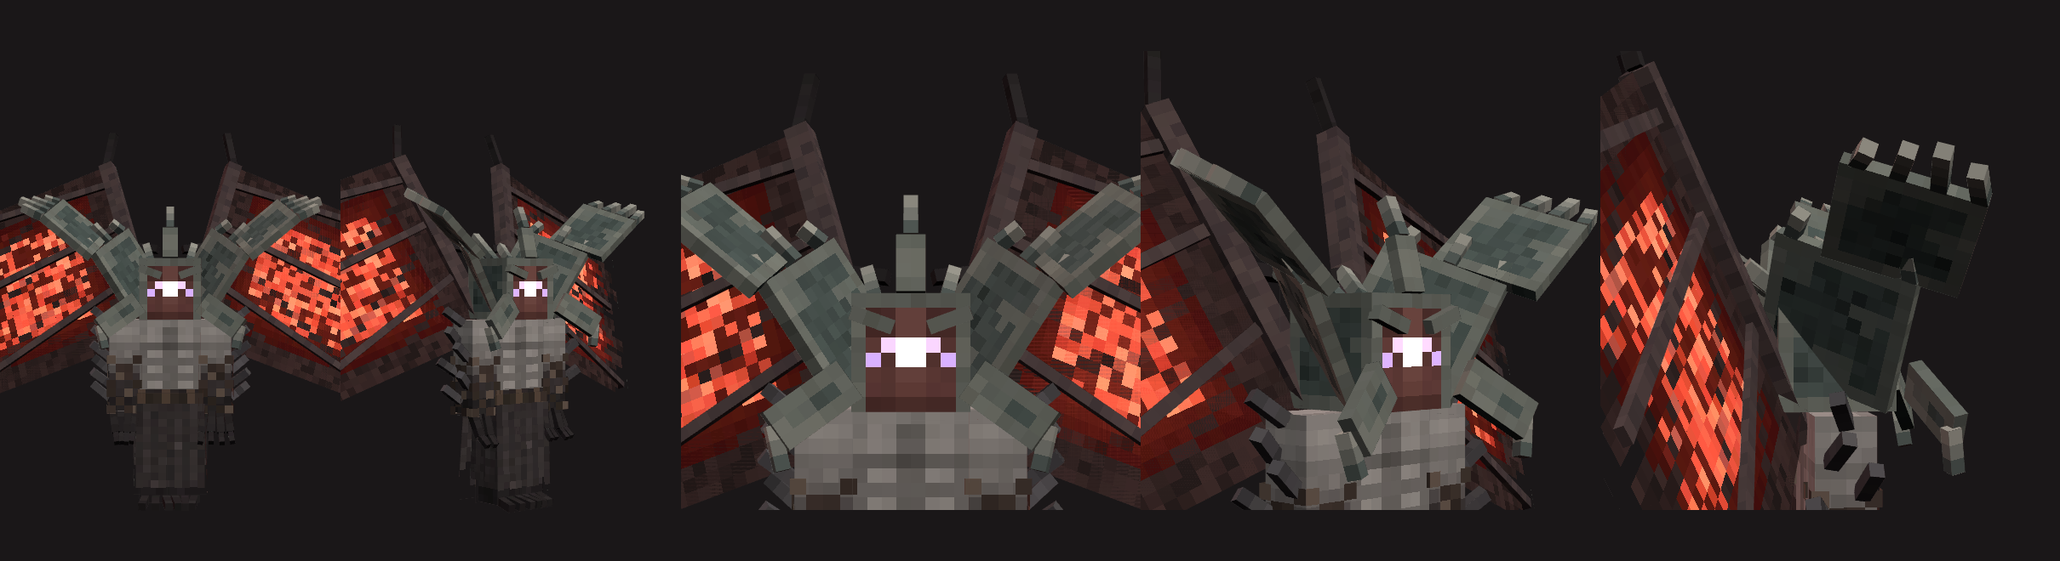
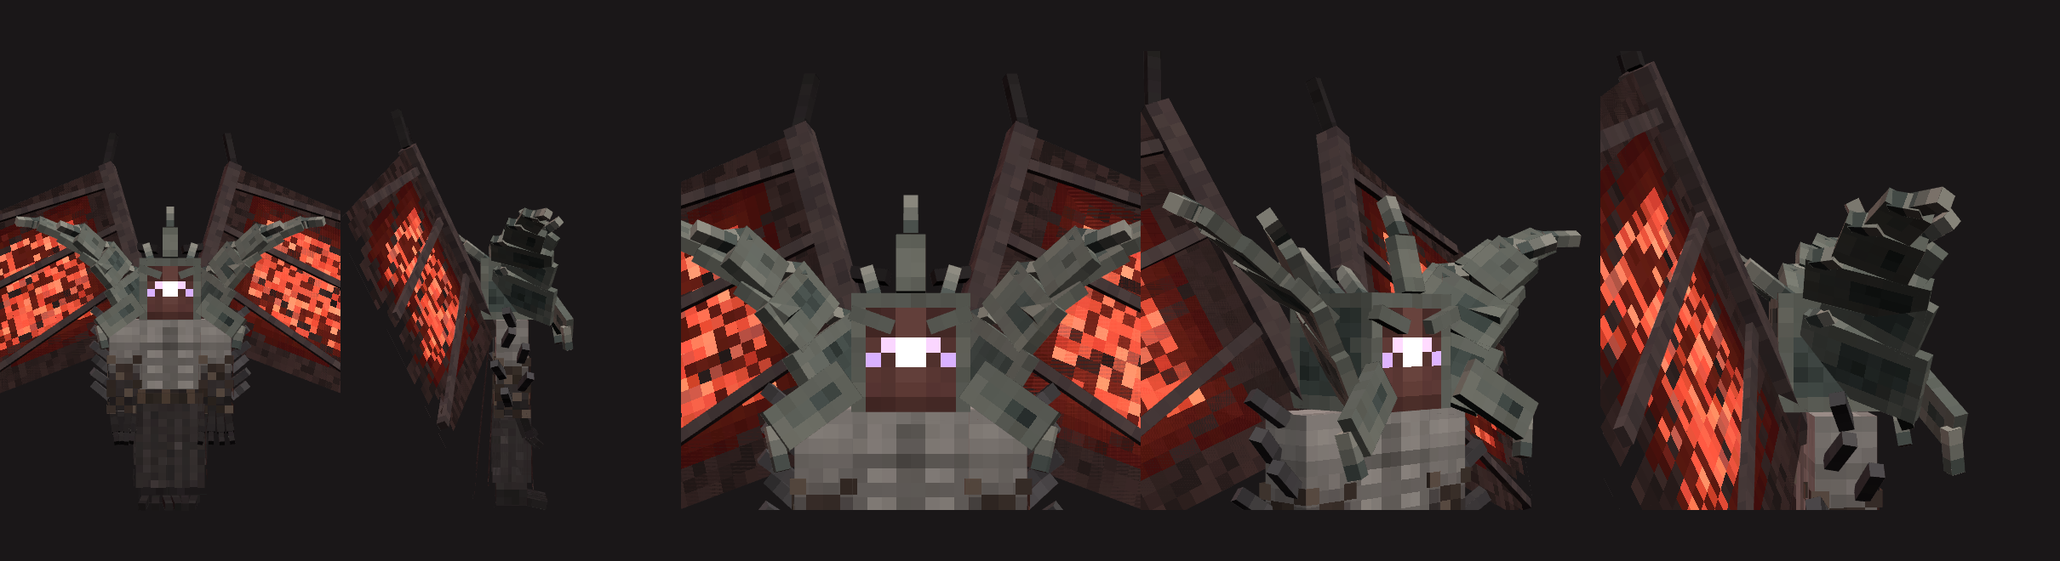
Demon head: build cowl plates from tapered, back-curving segments
Each cowl blade is now a stack of three segments that shrink in height
and depth and curve back, with barbs off the back edges, so the side
view reads as a layered crescent instead of a flat slab.

Claude-Session: https://claude.ai/code/session_01MfYQXbUyfkcVTi5nAqcCEq

diff --git a/mods/warfront/src/main/java/com/warfront/client/model/UnitGeometry.java b/mods/warfront/src/main/java/com/warfront/client/model/UnitGeometry.java
@@ -608,183 +608,211 @@ public final class UnitGeometry {
         PartDefinition root = mesh.getRoot();
         PartDefinition p0 = root.addOrReplaceChild("head", CubeListBuilder.create(),
                 PartPose.offsetAndRotation(0F, 0F, 0F, 0F, 0F, 0F));
-        PartDefinition p1 = p0.addOrReplaceChild("cowl_r", CubeListBuilder.create().texOffs(28, 30).addBox(-0.5F, -10F, -1F, 1F, 10F, 10F),
-                PartPose.offsetAndRotation(-4.3F, -0.5F, -2.5F, 0.12F, 0.55F, -0.5F));
-        PartDefinition p2 = p1.addOrReplaceChild("cowl_r_outer", CubeListBuilder.create().texOffs(72, 30).addBox(-0.5F, -8F, -4F, 1F, 8F, 9F),
-                PartPose.offsetAndRotation(0F, -10F, 0.5F, 0.12F, -0.2F, -0.32F));
-        PartDefinition p3 = p2.addOrReplaceChild("cowl_r_outer_spike0", CubeListBuilder.create().texOffs(8, 71).addBox(-0.5F, -3F, -0.5F, 1F, 3F, 1F),
-                PartPose.offsetAndRotation(0F, -8F, -3.5F, -0.25F, 0F, -0.35F));
-        PartDefinition p4 = p2.addOrReplaceChild("cowl_r_outer_spike1", CubeListBuilder.create().texOffs(114, 54).addBox(-0.5F, -4F, -0.5F, 1F, 4F, 1F),
-                PartPose.offsetAndRotation(0F, -8F, -1F, -0.0833F, 0F, -0.35F));
-        PartDefinition p5 = p2.addOrReplaceChild("cowl_r_outer_spike2", CubeListBuilder.create().texOffs(12, 71).addBox(-0.5F, -3F, -0.5F, 1F, 3F, 1F),
-                PartPose.offsetAndRotation(0F, -8F, 1.5F, 0.0833F, 0F, -0.35F));
-        PartDefinition p6 = p2.addOrReplaceChild("cowl_r_outer_spike3", CubeListBuilder.create().texOffs(124, 80).addBox(-0.5F, -2F, -0.5F, 1F, 2F, 1F),
-                PartPose.offsetAndRotation(0F, -8F, 4F, 0.25F, 0F, -0.35F));
-        PartDefinition p7 = p1.addOrReplaceChild("cowl_r_spike0", CubeListBuilder.create().texOffs(0, 84).addBox(-0.5F, -2F, -0.5F, 1F, 2F, 1F),
-                PartPose.offsetAndRotation(0F, -10F, -0.5F, -0.25F, 0F, -0.25F));
-        PartDefinition p8 = p1.addOrReplaceChild("cowl_r_spike1", CubeListBuilder.create().texOffs(16, 71).addBox(-0.5F, -3F, -0.5F, 1F, 3F, 1F),
-                PartPose.offsetAndRotation(0F, -10F, 3.75F, 0F, 0F, -0.25F));
-        PartDefinition p9 = p1.addOrReplaceChild("cowl_r_spike2", CubeListBuilder.create().texOffs(4, 84).addBox(-0.5F, -2F, -0.5F, 1F, 2F, 1F),
-                PartPose.offsetAndRotation(0F, -10F, 8F, 0.25F, 0F, -0.25F));
-        PartDefinition p10 = p0.addOrReplaceChild("cowl_l", CubeListBuilder.create().texOffs(50, 30).addBox(-0.5F, -10F, -1F, 1F, 10F, 10F),
-                PartPose.offsetAndRotation(4.3F, -0.5F, -2.5F, 0.12F, -0.55F, 0.5F));
-        PartDefinition p11 = p10.addOrReplaceChild("cowl_l_outer", CubeListBuilder.create().texOffs(92, 30).addBox(-0.5F, -8F, -4F, 1F, 8F, 9F),
-                PartPose.offsetAndRotation(0F, -10F, 0.5F, 0.12F, 0.2F, 0.32F));
-        PartDefinition p12 = p11.addOrReplaceChild("cowl_l_outer_spike0", CubeListBuilder.create().texOffs(20, 71).addBox(-0.5F, -3F, -0.5F, 1F, 3F, 1F),
-                PartPose.offsetAndRotation(0F, -8F, -3.5F, -0.25F, 0F, 0.35F));
-        PartDefinition p13 = p11.addOrReplaceChild("cowl_l_outer_spike1", CubeListBuilder.create().texOffs(118, 54).addBox(-0.5F, -4F, -0.5F, 1F, 4F, 1F),
-                PartPose.offsetAndRotation(0F, -8F, -1F, -0.0833F, 0F, 0.35F));
-        PartDefinition p14 = p11.addOrReplaceChild("cowl_l_outer_spike2", CubeListBuilder.create().texOffs(24, 71).addBox(-0.5F, -3F, -0.5F, 1F, 3F, 1F),
-                PartPose.offsetAndRotation(0F, -8F, 1.5F, 0.0833F, 0F, 0.35F));
-        PartDefinition p15 = p11.addOrReplaceChild("cowl_l_outer_spike3", CubeListBuilder.create().texOffs(8, 84).addBox(-0.5F, -2F, -0.5F, 1F, 2F, 1F),
-                PartPose.offsetAndRotation(0F, -8F, 4F, 0.25F, 0F, 0.35F));
-        PartDefinition p16 = p10.addOrReplaceChild("cowl_l_spike0", CubeListBuilder.create().texOffs(12, 84).addBox(-0.5F, -2F, -0.5F, 1F, 2F, 1F),
-                PartPose.offsetAndRotation(0F, -10F, -0.5F, -0.25F, 0F, 0.25F));
-        PartDefinition p17 = p10.addOrReplaceChild("cowl_l_spike1", CubeListBuilder.create().texOffs(28, 71).addBox(-0.5F, -3F, -0.5F, 1F, 3F, 1F),
-                PartPose.offsetAndRotation(0F, -10F, 3.75F, 0F, 0F, 0.25F));
-        PartDefinition p18 = p10.addOrReplaceChild("cowl_l_spike2", CubeListBuilder.create().texOffs(16, 84).addBox(-0.5F, -2F, -0.5F, 1F, 2F, 1F),
-                PartPose.offsetAndRotation(0F, -10F, 8F, 0.25F, 0F, 0.25F));
-        PartDefinition p19 = p0.addOrReplaceChild("chin_r", CubeListBuilder.create().texOffs(32, 71).addBox(-6F, -1F, -1F, 6F, 3F, 1F),
+        PartDefinition p1 = p0.addOrReplaceChild("cowl_r", CubeListBuilder.create(),
+                PartPose.offsetAndRotation(-4.3F, -0.5F, -2.5F, 0.1F, 0.55F, -0.5F));
+        PartDefinition p2 = p1.addOrReplaceChild("cowl_r_blade", CubeListBuilder.create().texOffs(48, 30).addBox(-0.5F, -5F, -3F, 1F, 5F, 9F),
+                PartPose.offsetAndRotation(0F, 0F, 0F, 0F, 0F, 0F));
+        PartDefinition p3 = p2.addOrReplaceChild("cowl_r_blade_1", CubeListBuilder.create().texOffs(36, 54).addBox(-0.5F, -4F, -2F, 1F, 4F, 7F),
+                PartPose.offsetAndRotation(0F, -5F, 0F, 0.18F, 0F, -0.045F));
+        PartDefinition p4 = p3.addOrReplaceChild("cowl_r_blade_2", CubeListBuilder.create().texOffs(0, 66).addBox(-0.5F, -4F, -0.5F, 1F, 4F, 4F),
+                PartPose.offsetAndRotation(0F, -4F, 0F, 0.18F, 0F, -0.045F));
+        PartDefinition p5 = p4.addOrReplaceChild("cowl_r_blade_tip", CubeListBuilder.create().texOffs(86, 66).addBox(-0.5F, -3F, -0.5F, 1F, 3F, 1F),
+                PartPose.offsetAndRotation(0F, -4F, 1.5F, 0.35F, 0F, -0.15F));
+        PartDefinition p6 = p4.addOrReplaceChild("cowl_r_blade_barb2", CubeListBuilder.create().texOffs(64, 82).addBox(-0.5F, -2F, -0.5F, 1F, 2F, 1F),
+                PartPose.offsetAndRotation(0F, -3.5F, 3F, 0.9F, 0F, -0.15F));
+        PartDefinition p7 = p3.addOrReplaceChild("cowl_r_blade_barb1", CubeListBuilder.create().texOffs(68, 82).addBox(-0.5F, -2F, -0.5F, 1F, 2F, 1F),
+                PartPose.offsetAndRotation(0F, -3.5F, 4.5F, 0.9F, 0F, -0.15F));
+        PartDefinition p8 = p2.addOrReplaceChild("cowl_r_blade_barb0", CubeListBuilder.create().texOffs(72, 82).addBox(-0.5F, -2F, -0.5F, 1F, 2F, 1F),
+                PartPose.offsetAndRotation(0F, -4.5F, 5.5F, 0.9F, 0F, -0.15F));
+        PartDefinition p9 = p1.addOrReplaceChild("cowl_r_outer", CubeListBuilder.create(),
+                PartPose.offsetAndRotation(0F, -7F, 0.5F, 0.1F, -0.2F, -0.42F));
+        PartDefinition p10 = p9.addOrReplaceChild("cowl_r_outer_blade", CubeListBuilder.create().texOffs(0, 54).addBox(-0.5F, -4F, -2.5F, 1F, 4F, 8F),
+                PartPose.offsetAndRotation(0F, 0F, 0F, 0F, 0F, 0F));
+        PartDefinition p11 = p10.addOrReplaceChild("cowl_r_outer_blade_1", CubeListBuilder.create().texOffs(100, 54).addBox(-0.5F, -4F, -1F, 1F, 4F, 5F),
+                PartPose.offsetAndRotation(0F, -4F, 0F, 0.18F, 0F, -0.06F));
+        PartDefinition p12 = p11.addOrReplaceChild("cowl_r_outer_blade_2", CubeListBuilder.create().texOffs(24, 66).addBox(-0.5F, -3F, 0F, 1F, 3F, 3F),
+                PartPose.offsetAndRotation(0F, -4F, 0F, 0.18F, 0F, -0.06F));
+        PartDefinition p13 = p12.addOrReplaceChild("cowl_r_outer_blade_tip", CubeListBuilder.create().texOffs(90, 66).addBox(-0.5F, -3F, -0.5F, 1F, 3F, 1F),
+                PartPose.offsetAndRotation(0F, -3F, 1.5F, 0.35F, 0F, -0.2F));
+        PartDefinition p14 = p12.addOrReplaceChild("cowl_r_outer_blade_barb2", CubeListBuilder.create().texOffs(76, 82).addBox(-0.5F, -2F, -0.5F, 1F, 2F, 1F),
+                PartPose.offsetAndRotation(0F, -2.5F, 2.5F, 0.9F, 0F, -0.2F));
+        PartDefinition p15 = p11.addOrReplaceChild("cowl_r_outer_blade_barb1", CubeListBuilder.create().texOffs(80, 82).addBox(-0.5F, -2F, -0.5F, 1F, 2F, 1F),
+                PartPose.offsetAndRotation(0F, -3.5F, 3.5F, 0.9F, 0F, -0.2F));
+        PartDefinition p16 = p10.addOrReplaceChild("cowl_r_outer_blade_barb0", CubeListBuilder.create().texOffs(84, 82).addBox(-0.5F, -2F, -0.5F, 1F, 2F, 1F),
+                PartPose.offsetAndRotation(0F, -3.5F, 5F, 0.9F, 0F, -0.2F));
+        PartDefinition p17 = p0.addOrReplaceChild("cowl_l", CubeListBuilder.create(),
+                PartPose.offsetAndRotation(4.3F, -0.5F, -2.5F, 0.1F, -0.55F, 0.5F));
+        PartDefinition p18 = p17.addOrReplaceChild("cowl_l_blade", CubeListBuilder.create().texOffs(68, 30).addBox(-0.5F, -5F, -3F, 1F, 5F, 9F),
+                PartPose.offsetAndRotation(0F, 0F, 0F, 0F, 0F, 0F));
+        PartDefinition p19 = p18.addOrReplaceChild("cowl_l_blade_1", CubeListBuilder.create().texOffs(52, 54).addBox(-0.5F, -4F, -2F, 1F, 4F, 7F),
+                PartPose.offsetAndRotation(0F, -5F, 0F, 0.18F, 0F, 0.045F));
+        PartDefinition p20 = p19.addOrReplaceChild("cowl_l_blade_2", CubeListBuilder.create().texOffs(10, 66).addBox(-0.5F, -4F, -0.5F, 1F, 4F, 4F),
+                PartPose.offsetAndRotation(0F, -4F, 0F, 0.18F, 0F, 0.045F));
+        PartDefinition p21 = p20.addOrReplaceChild("cowl_l_blade_tip", CubeListBuilder.create().texOffs(94, 66).addBox(-0.5F, -3F, -0.5F, 1F, 3F, 1F),
+                PartPose.offsetAndRotation(0F, -4F, 1.5F, 0.35F, 0F, 0.15F));
+        PartDefinition p22 = p20.addOrReplaceChild("cowl_l_blade_barb2", CubeListBuilder.create().texOffs(88, 82).addBox(-0.5F, -2F, -0.5F, 1F, 2F, 1F),
+                PartPose.offsetAndRotation(0F, -3.5F, 3F, 0.9F, 0F, 0.15F));
+        PartDefinition p23 = p19.addOrReplaceChild("cowl_l_blade_barb1", CubeListBuilder.create().texOffs(92, 82).addBox(-0.5F, -2F, -0.5F, 1F, 2F, 1F),
+                PartPose.offsetAndRotation(0F, -3.5F, 4.5F, 0.9F, 0F, 0.15F));
+        PartDefinition p24 = p18.addOrReplaceChild("cowl_l_blade_barb0", CubeListBuilder.create().texOffs(96, 82).addBox(-0.5F, -2F, -0.5F, 1F, 2F, 1F),
+                PartPose.offsetAndRotation(0F, -4.5F, 5.5F, 0.9F, 0F, 0.15F));
+        PartDefinition p25 = p17.addOrReplaceChild("cowl_l_outer", CubeListBuilder.create(),
+                PartPose.offsetAndRotation(0F, -7F, 0.5F, 0.1F, 0.2F, 0.42F));
+        PartDefinition p26 = p25.addOrReplaceChild("cowl_l_outer_blade", CubeListBuilder.create().texOffs(18, 54).addBox(-0.5F, -4F, -2.5F, 1F, 4F, 8F),
+                PartPose.offsetAndRotation(0F, 0F, 0F, 0F, 0F, 0F));
+        PartDefinition p27 = p26.addOrReplaceChild("cowl_l_outer_blade_1", CubeListBuilder.create().texOffs(112, 54).addBox(-0.5F, -4F, -1F, 1F, 4F, 5F),
+                PartPose.offsetAndRotation(0F, -4F, 0F, 0.18F, 0F, 0.06F));
+        PartDefinition p28 = p27.addOrReplaceChild("cowl_l_outer_blade_2", CubeListBuilder.create().texOffs(32, 66).addBox(-0.5F, -3F, 0F, 1F, 3F, 3F),
+                PartPose.offsetAndRotation(0F, -4F, 0F, 0.18F, 0F, 0.06F));
+        PartDefinition p29 = p28.addOrReplaceChild("cowl_l_outer_blade_tip", CubeListBuilder.create().texOffs(98, 66).addBox(-0.5F, -3F, -0.5F, 1F, 3F, 1F),
+                PartPose.offsetAndRotation(0F, -3F, 1.5F, 0.35F, 0F, 0.2F));
+        PartDefinition p30 = p28.addOrReplaceChild("cowl_l_outer_blade_barb2", CubeListBuilder.create().texOffs(100, 82).addBox(-0.5F, -2F, -0.5F, 1F, 2F, 1F),
+                PartPose.offsetAndRotation(0F, -2.5F, 2.5F, 0.9F, 0F, 0.2F));
+        PartDefinition p31 = p27.addOrReplaceChild("cowl_l_outer_blade_barb1", CubeListBuilder.create().texOffs(104, 82).addBox(-0.5F, -2F, -0.5F, 1F, 2F, 1F),
+                PartPose.offsetAndRotation(0F, -3.5F, 3.5F, 0.9F, 0F, 0.2F));
+        PartDefinition p32 = p26.addOrReplaceChild("cowl_l_outer_blade_barb0", CubeListBuilder.create().texOffs(108, 82).addBox(-0.5F, -2F, -0.5F, 1F, 2F, 1F),
+                PartPose.offsetAndRotation(0F, -3.5F, 5F, 0.9F, 0F, 0.2F));
+        PartDefinition p33 = p0.addOrReplaceChild("chin_r", CubeListBuilder.create().texOffs(102, 66).addBox(-6F, -1F, -1F, 6F, 3F, 1F),
                 PartPose.offsetAndRotation(-4.6F, -2.5F, -4.6F, 0F, -0.35F, -0.62F));
-        PartDefinition p20 = p19.addOrReplaceChild("chin_r_edge", CubeListBuilder.create().texOffs(46, 71).addBox(-0.5F, -0.5F, -0.5F, 1F, 3F, 1F),
+        PartDefinition p34 = p33.addOrReplaceChild("chin_r_edge", CubeListBuilder.create().texOffs(116, 66).addBox(-0.5F, -0.5F, -0.5F, 1F, 3F, 1F),
                 PartPose.offsetAndRotation(-6F, 0.5F, 0F, 0F, 0F, 0.4F));
-        PartDefinition p21 = p0.addOrReplaceChild("chin_l", CubeListBuilder.create().texOffs(50, 71).addBox(0F, -1F, -1F, 6F, 3F, 1F),
+        PartDefinition p35 = p0.addOrReplaceChild("chin_l", CubeListBuilder.create().texOffs(0, 74).addBox(0F, -1F, -1F, 6F, 3F, 1F),
                 PartPose.offsetAndRotation(4.6F, -2.5F, -4.6F, 0F, 0.35F, 0.62F));
-        PartDefinition p22 = p21.addOrReplaceChild("chin_l_edge", CubeListBuilder.create().texOffs(64, 71).addBox(-0.5F, -0.5F, -0.5F, 1F, 3F, 1F),
+        PartDefinition p36 = p35.addOrReplaceChild("chin_l_edge", CubeListBuilder.create().texOffs(14, 74).addBox(-0.5F, -0.5F, -0.5F, 1F, 3F, 1F),
                 PartPose.offsetAndRotation(6F, 0.5F, 0F, 0F, 0F, -0.4F));
-        PartDefinition p23 = p0.addOrReplaceChild("crest", CubeListBuilder.create().texOffs(122, 54).addBox(-1F, -4F, -0.5F, 2F, 4F, 1F),
+        PartDefinition p37 = p0.addOrReplaceChild("crest", CubeListBuilder.create().texOffs(72, 66).addBox(-1F, -4F, -0.5F, 2F, 4F, 1F),
                 PartPose.offsetAndRotation(0F, -8F, -3.8F, -0.25F, 0F, 0F));
-        PartDefinition p24 = p23.addOrReplaceChild("crest_tip", CubeListBuilder.create().texOffs(68, 71).addBox(-0.5F, -3F, -0.5F, 1F, 3F, 1F),
+        PartDefinition p38 = p37.addOrReplaceChild("crest_tip", CubeListBuilder.create().texOffs(18, 74).addBox(-0.5F, -3F, -0.5F, 1F, 3F, 1F),
                 PartPose.offsetAndRotation(0F, -4F, 0F, -0.2F, 0F, 0F));
-        PartDefinition p25 = p0.addOrReplaceChild("back_spine_0", CubeListBuilder.create().texOffs(0, 71).addBox(-0.5F, -4F, -0.5F, 1F, 4F, 1F),
+        PartDefinition p39 = p0.addOrReplaceChild("back_spine_0", CubeListBuilder.create().texOffs(78, 66).addBox(-0.5F, -4F, -0.5F, 1F, 4F, 1F),
                 PartPose.offsetAndRotation(-2.5F, -7.5F, 3F, -0.9F, 0F, -0.3F));
-        PartDefinition p26 = p0.addOrReplaceChild("back_spine_1", CubeListBuilder.create().texOffs(78, 54).addBox(-0.5F, -6F, -0.5F, 1F, 6F, 1F),
+        PartDefinition p40 = p0.addOrReplaceChild("back_spine_1", CubeListBuilder.create().texOffs(20, 66).addBox(-0.5F, -6F, -0.5F, 1F, 6F, 1F),
                 PartPose.offsetAndRotation(0F, -7.5F, 3F, -0.9F, 0F, 0F));
-        PartDefinition p27 = p0.addOrReplaceChild("back_spine_2", CubeListBuilder.create().texOffs(4, 71).addBox(-0.5F, -4F, -0.5F, 1F, 4F, 1F),
+        PartDefinition p41 = p0.addOrReplaceChild("back_spine_2", CubeListBuilder.create().texOffs(82, 66).addBox(-0.5F, -4F, -0.5F, 1F, 4F, 1F),
                 PartPose.offsetAndRotation(2.5F, -7.5F, 3F, -0.9F, 0F, 0.3F));
-        PartDefinition p28 = p0.addOrReplaceChild("brow_r", CubeListBuilder.create().texOffs(52, 84).addBox(-1.5F, -0.5F, -0.5F, 3F, 1F, 1F),
+        PartDefinition p42 = p0.addOrReplaceChild("brow_r", CubeListBuilder.create().texOffs(16, 86).addBox(-1.5F, -0.5F, -0.5F, 3F, 1F, 1F),
                 PartPose.offsetAndRotation(-2.6F, -6.2F, -4.3F, 0F, 0F, 0.35F));
-        PartDefinition p29 = p0.addOrReplaceChild("brow_l", CubeListBuilder.create().texOffs(60, 84).addBox(-1.5F, -0.5F, -0.5F, 3F, 1F, 1F),
+        PartDefinition p43 = p0.addOrReplaceChild("brow_l", CubeListBuilder.create().texOffs(24, 86).addBox(-1.5F, -0.5F, -0.5F, 3F, 1F, 1F),
                 PartPose.offsetAndRotation(2.6F, -6.2F, -4.3F, 0F, 0F, -0.35F));
-        PartDefinition p30 = root.addOrReplaceChild("hat", CubeListBuilder.create(),
+        PartDefinition p44 = root.addOrReplaceChild("hat", CubeListBuilder.create(),
                 PartPose.offsetAndRotation(0F, 0F, 0F, 0F, 0F, 0F));
-        PartDefinition p31 = root.addOrReplaceChild("body", CubeListBuilder.create(),
+        PartDefinition p45 = root.addOrReplaceChild("body", CubeListBuilder.create(),
                 PartPose.offsetAndRotation(0F, 0F, 0F, 0F, 0F, 0F));
-        PartDefinition p32 = p31.addOrReplaceChild("wing_r", CubeListBuilder.create().texOffs(0, 76).addBox(-27F, -1F, -1F, 27F, 2F, 2F).texOffs(0, 0).addBox(-27F, 1F, 0F, 27F, 30F, 0F),
+        PartDefinition p46 = p45.addOrReplaceChild("wing_r", CubeListBuilder.create().texOffs(22, 74).addBox(-27F, -1F, -1F, 27F, 2F, 2F).texOffs(0, 0).addBox(-27F, 1F, 0F, 27F, 30F, 0F),
                 PartPose.offsetAndRotation(-2F, 2F, 2.2F, 0.2F, 0.42F, 1.28F));
-        PartDefinition p33 = p32.addOrReplaceChild("wing_r_claw", CubeListBuilder.create().texOffs(82, 54).addBox(-0.5F, -5F, -0.5F, 1F, 5F, 1F),
+        PartDefinition p47 = p46.addOrReplaceChild("wing_r_claw", CubeListBuilder.create().texOffs(40, 66).addBox(-0.5F, -5F, -0.5F, 1F, 5F, 1F),
                 PartPose.offsetAndRotation(-27F, 0F, 0F, 0F, 0F, -1.1F));
-        PartDefinition p34 = p32.addOrReplaceChild("wing_r_hook", CubeListBuilder.create().texOffs(58, 76).addBox(-0.5F, -3F, -0.5F, 1F, 3F, 1F),
+        PartDefinition p48 = p46.addOrReplaceChild("wing_r_hook", CubeListBuilder.create().texOffs(80, 74).addBox(-0.5F, -3F, -0.5F, 1F, 3F, 1F),
                 PartPose.offsetAndRotation(-13F, -1F, 0F, 0F, 0F, 0.5F));
-        PartDefinition p35 = p32.addOrReplaceChild("wing_r_finger1", CubeListBuilder.create().texOffs(54, 0).addBox(-0.5F, 0F, -0.5F, 1F, 29F, 1F),
+        PartDefinition p49 = p46.addOrReplaceChild("wing_r_finger1", CubeListBuilder.create().texOffs(54, 0).addBox(-0.5F, 0F, -0.5F, 1F, 29F, 1F),
                 PartPose.offsetAndRotation(-9F, 1F, 0F, 0F, 0F, -0.25F));
-        PartDefinition p36 = p32.addOrReplaceChild("wing_r_finger2", CubeListBuilder.create().texOffs(116, 0).addBox(-0.5F, 0F, -0.5F, 1F, 27F, 1F),
+        PartDefinition p50 = p46.addOrReplaceChild("wing_r_finger2", CubeListBuilder.create().texOffs(116, 0).addBox(-0.5F, 0F, -0.5F, 1F, 27F, 1F),
                 PartPose.offsetAndRotation(-17F, 1F, 0F, 0F, 0F, -0.08F));
-        PartDefinition p37 = p32.addOrReplaceChild("wing_r_finger3", CubeListBuilder.create().texOffs(20, 30).addBox(-0.5F, 0F, -0.5F, 1F, 21F, 1F),
+        PartDefinition p51 = p46.addOrReplaceChild("wing_r_finger3", CubeListBuilder.create().texOffs(20, 30).addBox(-0.5F, 0F, -0.5F, 1F, 21F, 1F),
                 PartPose.offsetAndRotation(-24F, 1F, 0F, 0F, 0F, 0.1F));
-        PartDefinition p38 = p31.addOrReplaceChild("wing_l", CubeListBuilder.create().texOffs(62, 76).mirror().addBox(0F, -1F, -1F, 27F, 2F, 2F).mirror(false).texOffs(58, 0).mirror().addBox(0F, 1F, 0F, 27F, 30F, 0F).mirror(false),
+        PartDefinition p52 = p45.addOrReplaceChild("wing_l", CubeListBuilder.create().texOffs(0, 78).mirror().addBox(0F, -1F, -1F, 27F, 2F, 2F).mirror(false).texOffs(58, 0).mirror().addBox(0F, 1F, 0F, 27F, 30F, 0F).mirror(false),
                 PartPose.offsetAndRotation(2F, 2F, 2.2F, 0.2F, -0.42F, -1.28F));
-        PartDefinition p39 = p38.addOrReplaceChild("wing_l_claw", CubeListBuilder.create().texOffs(86, 54).mirror().addBox(-0.5F, -5F, -0.5F, 1F, 5F, 1F).mirror(false),
+        PartDefinition p53 = p52.addOrReplaceChild("wing_l_claw", CubeListBuilder.create().texOffs(44, 66).mirror().addBox(-0.5F, -5F, -0.5F, 1F, 5F, 1F).mirror(false),
                 PartPose.offsetAndRotation(27F, 0F, 0F, 0F, 0F, 1.1F));
-        PartDefinition p40 = p38.addOrReplaceChild("wing_l_hook", CubeListBuilder.create().texOffs(120, 76).mirror().addBox(-0.5F, -3F, -0.5F, 1F, 3F, 1F).mirror(false),
+        PartDefinition p54 = p52.addOrReplaceChild("wing_l_hook", CubeListBuilder.create().texOffs(58, 78).mirror().addBox(-0.5F, -3F, -0.5F, 1F, 3F, 1F).mirror(false),
                 PartPose.offsetAndRotation(13F, -1F, 0F, 0F, 0F, -0.5F));
-        PartDefinition p41 = p38.addOrReplaceChild("wing_l_finger1", CubeListBuilder.create().texOffs(112, 0).mirror().addBox(-0.5F, 0F, -0.5F, 1F, 29F, 1F).mirror(false),
+        PartDefinition p55 = p52.addOrReplaceChild("wing_l_finger1", CubeListBuilder.create().texOffs(112, 0).mirror().addBox(-0.5F, 0F, -0.5F, 1F, 29F, 1F).mirror(false),
                 PartPose.offsetAndRotation(9F, 1F, 0F, 0F, 0F, 0.25F));
-        PartDefinition p42 = p38.addOrReplaceChild("wing_l_finger2", CubeListBuilder.create().texOffs(120, 0).mirror().addBox(-0.5F, 0F, -0.5F, 1F, 27F, 1F).mirror(false),
+        PartDefinition p56 = p52.addOrReplaceChild("wing_l_finger2", CubeListBuilder.create().texOffs(120, 0).mirror().addBox(-0.5F, 0F, -0.5F, 1F, 27F, 1F).mirror(false),
                 PartPose.offsetAndRotation(17F, 1F, 0F, 0F, 0F, 0.08F));
-        PartDefinition p43 = p38.addOrReplaceChild("wing_l_finger3", CubeListBuilder.create().texOffs(24, 30).mirror().addBox(-0.5F, 0F, -0.5F, 1F, 21F, 1F).mirror(false),
+        PartDefinition p57 = p52.addOrReplaceChild("wing_l_finger3", CubeListBuilder.create().texOffs(24, 30).mirror().addBox(-0.5F, 0F, -0.5F, 1F, 21F, 1F).mirror(false),
                 PartPose.offsetAndRotation(24F, 1F, 0F, 0F, 0F, -0.1F));
-        PartDefinition p44 = p31.addOrReplaceChild("thorn_belt", CubeListBuilder.create().texOffs(90, 54).addBox(-4F, 10F, -2F, 8F, 2F, 4F, new CubeDeformation(0.35F)),
+        PartDefinition p58 = p45.addOrReplaceChild("thorn_belt", CubeListBuilder.create().texOffs(48, 66).addBox(-4F, 10F, -2F, 8F, 2F, 4F, new CubeDeformation(0.35F)),
                 PartPose.offsetAndRotation(0F, 0F, 0F, 0F, 0F, 0F));
-        PartDefinition p45 = p31.addOrReplaceChild("robe_front", CubeListBuilder.create().texOffs(10, 54).addBox(-4.5F, 0F, 0F, 9F, 13F, 0F),
+        PartDefinition p59 = p45.addOrReplaceChild("robe_front", CubeListBuilder.create().texOffs(88, 30).addBox(-4.5F, 0F, 0F, 9F, 13F, 0F),
                 PartPose.offsetAndRotation(0F, 11F, -2.45F, -0.03F, 0F, 0F));
-        PartDefinition p46 = p31.addOrReplaceChild("robe_back", CubeListBuilder.create().texOffs(28, 54).addBox(-4.5F, 0F, 0F, 9F, 13F, 0F),
+        PartDefinition p60 = p45.addOrReplaceChild("robe_back", CubeListBuilder.create().texOffs(106, 30).addBox(-4.5F, 0F, 0F, 9F, 13F, 0F),
                 PartPose.offsetAndRotation(0F, 11F, 2.45F, 0.05F, 0F, 0F));
-        PartDefinition p47 = p31.addOrReplaceChild("robe_side_r", CubeListBuilder.create().texOffs(112, 30).addBox(0F, 0F, -2.5F, 0F, 12F, 5F),
+        PartDefinition p61 = p45.addOrReplaceChild("robe_side_r", CubeListBuilder.create().texOffs(28, 30).addBox(0F, 0F, -2.5F, 0F, 12F, 5F),
                 PartPose.offsetAndRotation(-4.45F, 11F, 0F, 0F, 0F, 0.04F));
-        PartDefinition p48 = p31.addOrReplaceChild("robe_side_l", CubeListBuilder.create().texOffs(0, 54).addBox(0F, 0F, -2.5F, 0F, 12F, 5F),
+        PartDefinition p62 = p45.addOrReplaceChild("robe_side_l", CubeListBuilder.create().texOffs(38, 30).addBox(0F, 0F, -2.5F, 0F, 12F, 5F),
                 PartPose.offsetAndRotation(4.45F, 11F, 0F, 0F, 0F, -0.04F));
-        PartDefinition p49 = p31.addOrReplaceChild("cloak", CubeListBuilder.create().texOffs(0, 30).addBox(-5F, 0F, 0F, 10F, 24F, 0F),
+        PartDefinition p63 = p45.addOrReplaceChild("cloak", CubeListBuilder.create().texOffs(0, 30).addBox(-5F, 0F, 0F, 10F, 24F, 0F),
                 PartPose.offsetAndRotation(0F, 0.2F, 2.6F, 0.1F, 0F, 0F));
-        PartDefinition p50 = root.addOrReplaceChild("right_arm", CubeListBuilder.create(),
+        PartDefinition p64 = root.addOrReplaceChild("right_arm", CubeListBuilder.create(),
                 PartPose.offsetAndRotation(-5F, 2F, 0F, 0F, 0F, 0F));
-        PartDefinition p51 = p50.addOrReplaceChild("brambles_r", CubeListBuilder.create().texOffs(46, 54).addBox(-3F, 3F, -2F, 4F, 7F, 4F, new CubeDeformation(0.3F)),
+        PartDefinition p65 = p64.addOrReplaceChild("brambles_r", CubeListBuilder.create().texOffs(68, 54).addBox(-3F, 3F, -2F, 4F, 7F, 4F, new CubeDeformation(0.3F)),
                 PartPose.offsetAndRotation(0F, 0F, 0F, 0F, 0F, 0F));
-        PartDefinition p52 = p50.addOrReplaceChild("thorn_r0", CubeListBuilder.create().texOffs(124, 76).addBox(-0.5F, -3F, -0.5F, 1F, 3F, 1F),
+        PartDefinition p66 = p64.addOrReplaceChild("thorn_r0", CubeListBuilder.create().texOffs(62, 78).addBox(-0.5F, -3F, -0.5F, 1F, 3F, 1F),
                 PartPose.offsetAndRotation(-3F, -1.5F, 0F, -0.3F, 0F, -0.9F));
-        PartDefinition p53 = p50.addOrReplaceChild("thorn_r1", CubeListBuilder.create().texOffs(0, 80).addBox(-0.5F, -3F, -0.5F, 1F, 3F, 1F),
+        PartDefinition p67 = p64.addOrReplaceChild("thorn_r1", CubeListBuilder.create().texOffs(66, 78).addBox(-0.5F, -3F, -0.5F, 1F, 3F, 1F),
                 PartPose.offsetAndRotation(-3F, 1F, 1F, 0.3F, 0F, -0.9F));
-        PartDefinition p54 = p50.addOrReplaceChild("thorn_r2", CubeListBuilder.create().texOffs(4, 80).addBox(-0.5F, -3F, -0.5F, 1F, 3F, 1F),
+        PartDefinition p68 = p64.addOrReplaceChild("thorn_r2", CubeListBuilder.create().texOffs(70, 78).addBox(-0.5F, -3F, -0.5F, 1F, 3F, 1F),
                 PartPose.offsetAndRotation(-3F, 3F, -1F, 0.2F, 0F, -0.9F));
-        PartDefinition p55 = p50.addOrReplaceChild("thorn_r3", CubeListBuilder.create().texOffs(8, 80).addBox(-0.5F, -3F, -0.5F, 1F, 3F, 1F),
+        PartDefinition p69 = p64.addOrReplaceChild("thorn_r3", CubeListBuilder.create().texOffs(74, 78).addBox(-0.5F, -3F, -0.5F, 1F, 3F, 1F),
                 PartPose.offsetAndRotation(-3F, 5F, 1.2F, -0.4F, 0F, -0.9F));
-        PartDefinition p56 = p50.addOrReplaceChild("thorn_r4", CubeListBuilder.create().texOffs(12, 80).addBox(-0.5F, -3F, -0.5F, 1F, 3F, 1F),
+        PartDefinition p70 = p64.addOrReplaceChild("thorn_r4", CubeListBuilder.create().texOffs(78, 78).addBox(-0.5F, -3F, -0.5F, 1F, 3F, 1F),
                 PartPose.offsetAndRotation(-3F, 6.5F, -1F, 0.4F, 0F, -0.9F));
-        PartDefinition p57 = p50.addOrReplaceChild("thorn_r5", CubeListBuilder.create().texOffs(16, 80).addBox(-0.5F, -3F, -0.5F, 1F, 3F, 1F),
+        PartDefinition p71 = p64.addOrReplaceChild("thorn_r5", CubeListBuilder.create().texOffs(82, 78).addBox(-0.5F, -3F, -0.5F, 1F, 3F, 1F),
                 PartPose.offsetAndRotation(-3F, 8.5F, 0.5F, -0.2F, 0F, -0.9F));
-        PartDefinition p58 = p50.addOrReplaceChild("talon_r0", CubeListBuilder.create().texOffs(20, 80).addBox(-0.5F, 0F, -0.5F, 1F, 3F, 1F),
+        PartDefinition p72 = p64.addOrReplaceChild("talon_r0", CubeListBuilder.create().texOffs(86, 78).addBox(-0.5F, 0F, -0.5F, 1F, 3F, 1F),
                 PartPose.offsetAndRotation(-2.5F, 10F, -1.3F, -0.35F, 0F, -0.15F));
-        PartDefinition p59 = p58.addOrReplaceChild("talon_r0_tip", CubeListBuilder.create().texOffs(20, 84).addBox(-0.5F, 0F, -0.5F, 1F, 2F, 1F, new CubeDeformation(-0.15F)),
+        PartDefinition p73 = p72.addOrReplaceChild("talon_r0_tip", CubeListBuilder.create().texOffs(112, 82).addBox(-0.5F, 0F, -0.5F, 1F, 2F, 1F, new CubeDeformation(-0.15F)),
                 PartPose.offsetAndRotation(0F, 3F, 0F, -0.5F, 0F, 0F));
-        PartDefinition p60 = p50.addOrReplaceChild("talon_r1", CubeListBuilder.create().texOffs(24, 80).addBox(-0.5F, 0F, -0.5F, 1F, 3F, 1F),
+        PartDefinition p74 = p64.addOrReplaceChild("talon_r1", CubeListBuilder.create().texOffs(90, 78).addBox(-0.5F, 0F, -0.5F, 1F, 3F, 1F),
                 PartPose.offsetAndRotation(-1.5F, 10F, -0.7F, -0.35F, 0F, -0.05F));
-        PartDefinition p61 = p60.addOrReplaceChild("talon_r1_tip", CubeListBuilder.create().texOffs(24, 84).addBox(-0.5F, 0F, -0.5F, 1F, 2F, 1F, new CubeDeformation(-0.15F)),
+        PartDefinition p75 = p74.addOrReplaceChild("talon_r1_tip", CubeListBuilder.create().texOffs(116, 82).addBox(-0.5F, 0F, -0.5F, 1F, 2F, 1F, new CubeDeformation(-0.15F)),
                 PartPose.offsetAndRotation(0F, 3F, 0F, -0.5F, 0F, 0F));
-        PartDefinition p62 = p50.addOrReplaceChild("talon_r2", CubeListBuilder.create().texOffs(28, 80).addBox(-0.5F, 0F, -0.5F, 1F, 3F, 1F),
+        PartDefinition p76 = p64.addOrReplaceChild("talon_r2", CubeListBuilder.create().texOffs(94, 78).addBox(-0.5F, 0F, -0.5F, 1F, 3F, 1F),
                 PartPose.offsetAndRotation(-0.5F, 10F, -1.3F, -0.35F, 0F, 0.05F));
-        PartDefinition p63 = p62.addOrReplaceChild("talon_r2_tip", CubeListBuilder.create().texOffs(28, 84).addBox(-0.5F, 0F, -0.5F, 1F, 2F, 1F, new CubeDeformation(-0.15F)),
+        PartDefinition p77 = p76.addOrReplaceChild("talon_r2_tip", CubeListBuilder.create().texOffs(120, 82).addBox(-0.5F, 0F, -0.5F, 1F, 2F, 1F, new CubeDeformation(-0.15F)),
                 PartPose.offsetAndRotation(0F, 3F, 0F, -0.5F, 0F, 0F));
-        PartDefinition p64 = p50.addOrReplaceChild("talon_r3", CubeListBuilder.create().texOffs(32, 80).addBox(-0.5F, 0F, -0.5F, 1F, 3F, 1F),
+        PartDefinition p78 = p64.addOrReplaceChild("talon_r3", CubeListBuilder.create().texOffs(98, 78).addBox(-0.5F, 0F, -0.5F, 1F, 3F, 1F),
                 PartPose.offsetAndRotation(0.5F, 10F, -0.7F, -0.35F, 0F, 0.15F));
-        PartDefinition p65 = p64.addOrReplaceChild("talon_r3_tip", CubeListBuilder.create().texOffs(32, 84).addBox(-0.5F, 0F, -0.5F, 1F, 2F, 1F, new CubeDeformation(-0.15F)),
+        PartDefinition p79 = p78.addOrReplaceChild("talon_r3_tip", CubeListBuilder.create().texOffs(124, 82).addBox(-0.5F, 0F, -0.5F, 1F, 2F, 1F, new CubeDeformation(-0.15F)),
                 PartPose.offsetAndRotation(0F, 3F, 0F, -0.5F, 0F, 0F));
-        PartDefinition p66 = root.addOrReplaceChild("left_arm", CubeListBuilder.create(),
+        PartDefinition p80 = root.addOrReplaceChild("left_arm", CubeListBuilder.create(),
                 PartPose.offsetAndRotation(5F, 2F, 0F, 0F, 0F, 0F));
-        PartDefinition p67 = p66.addOrReplaceChild("brambles_l", CubeListBuilder.create().texOffs(62, 54).addBox(-1F, 3F, -2F, 4F, 7F, 4F, new CubeDeformation(0.3F)),
+        PartDefinition p81 = p80.addOrReplaceChild("brambles_l", CubeListBuilder.create().texOffs(84, 54).addBox(-1F, 3F, -2F, 4F, 7F, 4F, new CubeDeformation(0.3F)),
                 PartPose.offsetAndRotation(0F, 0F, 0F, 0F, 0F, 0F));
-        PartDefinition p68 = p66.addOrReplaceChild("thorn_l0", CubeListBuilder.create().texOffs(36, 80).addBox(-0.5F, -3F, -0.5F, 1F, 3F, 1F),
+        PartDefinition p82 = p80.addOrReplaceChild("thorn_l0", CubeListBuilder.create().texOffs(102, 78).addBox(-0.5F, -3F, -0.5F, 1F, 3F, 1F),
                 PartPose.offsetAndRotation(3F, -1.5F, 0F, -0.3F, 0F, 0.9F));
-        PartDefinition p69 = p66.addOrReplaceChild("thorn_l1", CubeListBuilder.create().texOffs(40, 80).addBox(-0.5F, -3F, -0.5F, 1F, 3F, 1F),
+        PartDefinition p83 = p80.addOrReplaceChild("thorn_l1", CubeListBuilder.create().texOffs(106, 78).addBox(-0.5F, -3F, -0.5F, 1F, 3F, 1F),
                 PartPose.offsetAndRotation(3F, 1F, 1F, 0.3F, 0F, 0.9F));
-        PartDefinition p70 = p66.addOrReplaceChild("thorn_l2", CubeListBuilder.create().texOffs(44, 80).addBox(-0.5F, -3F, -0.5F, 1F, 3F, 1F),
+        PartDefinition p84 = p80.addOrReplaceChild("thorn_l2", CubeListBuilder.create().texOffs(110, 78).addBox(-0.5F, -3F, -0.5F, 1F, 3F, 1F),
                 PartPose.offsetAndRotation(3F, 3F, -1F, 0.2F, 0F, 0.9F));
-        PartDefinition p71 = p66.addOrReplaceChild("thorn_l3", CubeListBuilder.create().texOffs(48, 80).addBox(-0.5F, -3F, -0.5F, 1F, 3F, 1F),
+        PartDefinition p85 = p80.addOrReplaceChild("thorn_l3", CubeListBuilder.create().texOffs(114, 78).addBox(-0.5F, -3F, -0.5F, 1F, 3F, 1F),
                 PartPose.offsetAndRotation(3F, 5F, 1.2F, -0.4F, 0F, 0.9F));
-        PartDefinition p72 = p66.addOrReplaceChild("thorn_l4", CubeListBuilder.create().texOffs(52, 80).addBox(-0.5F, -3F, -0.5F, 1F, 3F, 1F),
+        PartDefinition p86 = p80.addOrReplaceChild("thorn_l4", CubeListBuilder.create().texOffs(118, 78).addBox(-0.5F, -3F, -0.5F, 1F, 3F, 1F),
                 PartPose.offsetAndRotation(3F, 6.5F, -1F, 0.4F, 0F, 0.9F));
-        PartDefinition p73 = p66.addOrReplaceChild("thorn_l5", CubeListBuilder.create().texOffs(56, 80).addBox(-0.5F, -3F, -0.5F, 1F, 3F, 1F),
+        PartDefinition p87 = p80.addOrReplaceChild("thorn_l5", CubeListBuilder.create().texOffs(122, 78).addBox(-0.5F, -3F, -0.5F, 1F, 3F, 1F),
                 PartPose.offsetAndRotation(3F, 8.5F, 0.5F, -0.2F, 0F, 0.9F));
-        PartDefinition p74 = p66.addOrReplaceChild("talon_l0", CubeListBuilder.create().texOffs(60, 80).addBox(-0.5F, 0F, -0.5F, 1F, 3F, 1F),
+        PartDefinition p88 = p80.addOrReplaceChild("talon_l0", CubeListBuilder.create().texOffs(0, 82).addBox(-0.5F, 0F, -0.5F, 1F, 3F, 1F),
                 PartPose.offsetAndRotation(-0.5F, 10F, -1.3F, -0.35F, 0F, 0.15F));
-        PartDefinition p75 = p74.addOrReplaceChild("talon_l0_tip", CubeListBuilder.create().texOffs(36, 84).addBox(-0.5F, 0F, -0.5F, 1F, 2F, 1F, new CubeDeformation(-0.15F)),
+        PartDefinition p89 = p88.addOrReplaceChild("talon_l0_tip", CubeListBuilder.create().texOffs(0, 86).addBox(-0.5F, 0F, -0.5F, 1F, 2F, 1F, new CubeDeformation(-0.15F)),
                 PartPose.offsetAndRotation(0F, 3F, 0F, -0.5F, 0F, 0F));
-        PartDefinition p76 = p66.addOrReplaceChild("talon_l1", CubeListBuilder.create().texOffs(64, 80).addBox(-0.5F, 0F, -0.5F, 1F, 3F, 1F),
+        PartDefinition p90 = p80.addOrReplaceChild("talon_l1", CubeListBuilder.create().texOffs(4, 82).addBox(-0.5F, 0F, -0.5F, 1F, 3F, 1F),
                 PartPose.offsetAndRotation(0.5F, 10F, -0.7F, -0.35F, 0F, 0.05F));
-        PartDefinition p77 = p76.addOrReplaceChild("talon_l1_tip", CubeListBuilder.create().texOffs(40, 84).addBox(-0.5F, 0F, -0.5F, 1F, 2F, 1F, new CubeDeformation(-0.15F)),
+        PartDefinition p91 = p90.addOrReplaceChild("talon_l1_tip", CubeListBuilder.create().texOffs(4, 86).addBox(-0.5F, 0F, -0.5F, 1F, 2F, 1F, new CubeDeformation(-0.15F)),
                 PartPose.offsetAndRotation(0F, 3F, 0F, -0.5F, 0F, 0F));
-        PartDefinition p78 = p66.addOrReplaceChild("talon_l2", CubeListBuilder.create().texOffs(68, 80).addBox(-0.5F, 0F, -0.5F, 1F, 3F, 1F),
+        PartDefinition p92 = p80.addOrReplaceChild("talon_l2", CubeListBuilder.create().texOffs(8, 82).addBox(-0.5F, 0F, -0.5F, 1F, 3F, 1F),
                 PartPose.offsetAndRotation(1.5F, 10F, -1.3F, -0.35F, 0F, -0.05F));
-        PartDefinition p79 = p78.addOrReplaceChild("talon_l2_tip", CubeListBuilder.create().texOffs(44, 84).addBox(-0.5F, 0F, -0.5F, 1F, 2F, 1F, new CubeDeformation(-0.15F)),
+        PartDefinition p93 = p92.addOrReplaceChild("talon_l2_tip", CubeListBuilder.create().texOffs(8, 86).addBox(-0.5F, 0F, -0.5F, 1F, 2F, 1F, new CubeDeformation(-0.15F)),
                 PartPose.offsetAndRotation(0F, 3F, 0F, -0.5F, 0F, 0F));
-        PartDefinition p80 = p66.addOrReplaceChild("talon_l3", CubeListBuilder.create().texOffs(72, 80).addBox(-0.5F, 0F, -0.5F, 1F, 3F, 1F),
+        PartDefinition p94 = p80.addOrReplaceChild("talon_l3", CubeListBuilder.create().texOffs(12, 82).addBox(-0.5F, 0F, -0.5F, 1F, 3F, 1F),
                 PartPose.offsetAndRotation(2.5F, 10F, -0.7F, -0.35F, 0F, -0.15F));
-        PartDefinition p81 = p80.addOrReplaceChild("talon_l3_tip", CubeListBuilder.create().texOffs(48, 84).addBox(-0.5F, 0F, -0.5F, 1F, 2F, 1F, new CubeDeformation(-0.15F)),
+        PartDefinition p95 = p94.addOrReplaceChild("talon_l3_tip", CubeListBuilder.create().texOffs(12, 86).addBox(-0.5F, 0F, -0.5F, 1F, 2F, 1F, new CubeDeformation(-0.15F)),
                 PartPose.offsetAndRotation(0F, 3F, 0F, -0.5F, 0F, 0F));
-        PartDefinition p82 = root.addOrReplaceChild("right_leg", CubeListBuilder.create(),
+        PartDefinition p96 = root.addOrReplaceChild("right_leg", CubeListBuilder.create(),
                 PartPose.offsetAndRotation(-1.9F, 12F, 0F, 0F, 0F, 0F));
-        PartDefinition p83 = p82.addOrReplaceChild("toe_r0", CubeListBuilder.create().texOffs(76, 80).addBox(-0.5F, -1F, -3F, 1F, 1F, 3F),
+        PartDefinition p97 = p96.addOrReplaceChild("toe_r0", CubeListBuilder.create().texOffs(16, 82).addBox(-0.5F, -1F, -3F, 1F, 1F, 3F),
                 PartPose.offsetAndRotation(-1.3F, 12F, -1.6F, 0.2F, 0.15F, 0F));
-        PartDefinition p84 = p82.addOrReplaceChild("toe_r1", CubeListBuilder.create().texOffs(84, 80).addBox(-0.5F, -1F, -3F, 1F, 1F, 3F),
+        PartDefinition p98 = p96.addOrReplaceChild("toe_r1", CubeListBuilder.create().texOffs(24, 82).addBox(-0.5F, -1F, -3F, 1F, 1F, 3F),
                 PartPose.offsetAndRotation(0F, 12F, -1.6F, 0.2F, 0F, 0F));
-        PartDefinition p85 = p82.addOrReplaceChild("toe_r2", CubeListBuilder.create().texOffs(92, 80).addBox(-0.5F, -1F, -3F, 1F, 1F, 3F),
+        PartDefinition p99 = p96.addOrReplaceChild("toe_r2", CubeListBuilder.create().texOffs(32, 82).addBox(-0.5F, -1F, -3F, 1F, 1F, 3F),
                 PartPose.offsetAndRotation(1.3F, 12F, -1.6F, 0.2F, -0.15F, 0F));
-        PartDefinition p86 = root.addOrReplaceChild("left_leg", CubeListBuilder.create(),
+        PartDefinition p100 = root.addOrReplaceChild("left_leg", CubeListBuilder.create(),
                 PartPose.offsetAndRotation(1.9F, 12F, 0F, 0F, 0F, 0F));
-        PartDefinition p87 = p86.addOrReplaceChild("toe_l0", CubeListBuilder.create().texOffs(100, 80).addBox(-0.5F, -1F, -3F, 1F, 1F, 3F),
+        PartDefinition p101 = p100.addOrReplaceChild("toe_l0", CubeListBuilder.create().texOffs(40, 82).addBox(-0.5F, -1F, -3F, 1F, 1F, 3F),
                 PartPose.offsetAndRotation(-1.3F, 12F, -1.6F, 0.2F, -0.15F, 0F));
-        PartDefinition p88 = p86.addOrReplaceChild("toe_l1", CubeListBuilder.create().texOffs(108, 80).addBox(-0.5F, -1F, -3F, 1F, 1F, 3F),
+        PartDefinition p102 = p100.addOrReplaceChild("toe_l1", CubeListBuilder.create().texOffs(48, 82).addBox(-0.5F, -1F, -3F, 1F, 1F, 3F),
                 PartPose.offsetAndRotation(0F, 12F, -1.6F, 0.2F, 0F, 0F));
-        PartDefinition p89 = p86.addOrReplaceChild("toe_l2", CubeListBuilder.create().texOffs(116, 80).addBox(-0.5F, -1F, -3F, 1F, 1F, 3F),
+        PartDefinition p103 = p100.addOrReplaceChild("toe_l2", CubeListBuilder.create().texOffs(56, 82).addBox(-0.5F, -1F, -3F, 1F, 1F, 3F),
                 PartPose.offsetAndRotation(1.3F, 12F, -1.6F, 0.2F, 0.15F, 0F));
         return LayerDefinition.create(mesh, 128, 128);
     }

diff --git a/mods/warfront/tools/units.py b/mods/warfront/tools/units.py
@@ -289,16 +289,34 @@ def demon_player():
                             boxes=[box((-0.5, -ln, -0.5), (1, ln, 1), "oryx_spike")]))
         return out
 
+    def tapered_plate(name, segs, lean):
+        """A plate built from stacked segments that shrink and curve back, so it reads as a curved,
+        layered blade from the side rather than a flat slab. ``segs`` is [(height, depth, z_offset)]."""
+        child = None
+        for i in range(len(segs) - 1, -1, -1):
+            h, d, z = segs[i]
+            kids = [child] if child else []
+            if i == len(segs) - 1:
+                kids.append(part(f"{name}_tip", pivot=(0, -h, z + d / 2), rot=(0.35, 0, lean),
+                                 boxes=[box((-0.5, -3, -0.5), (1, 3, 1), "oryx_spike")]))
+            # a short spike off the back edge of each segment breaks up the silhouette
+            kids.append(part(f"{name}_barb{i}", pivot=(0, -h + 0.5, z + d - 0.5), rot=(0.9, 0, lean),
+                             boxes=[box((-0.5, -2, -0.5), (1, 2, 1), "oryx_spike")]))
+            child = part(f"{name}_{i}" if i else name, pivot=(0, -segs[i - 1][0], 0) if i else (0, 0, 0),
+                         rot=(0.18, 0, lean * 0.3) if i else (0, 0, 0),
+                         boxes=[box((-0.5, -h, z), (1, h, d), "oryx_plate")], children=kids)
+        return child
+
     def cowl(side):
-        # Two panels per side: one rises from beside the jaw and leans out, the next flares further
-        # out and back over the shoulder. Both wrap forward around the face and carry spikes.
+        # Inner blade rises beside the jaw and leans out; the outer blade flares further out and
+        # back over the shoulder. Each is a tapering, back-curving stack of segments.
         sx = -1 if side == "r" else 1
-        outer = part(f"cowl_{side}_outer", pivot=(0, -10, 0.5), rot=(0.12, sx * 0.2, sx * 0.32),
-                     boxes=[box((-0.5, -8, -4), (1, 8, 9), "oryx_plate")],
-                     children=spikes(f"cowl_{side}_outer_spike", 4, 4, -8, -3.5, 4, 0, sx * 0.35))
-        return part(f"cowl_{side}", pivot=(sx * 4.3, -0.5, -2.5), rot=(0.12, sx * -0.55, sx * 0.5),
-                    boxes=[box((-0.5, -10, -1), (1, 10, 10), "oryx_plate")],
-                    children=[outer, *spikes(f"cowl_{side}_spike", 3, 3, -10, -0.5, 8, 0, sx * 0.25)])
+        inner = tapered_plate(f"cowl_{side}_blade", [(5, 9, -3), (4, 7, -2), (4, 4, -0.5)], sx * 0.15)
+        outer = tapered_plate(f"cowl_{side}_outer_blade", [(4, 8, -2.5), (4, 5, -1), (3, 3, 0)], sx * 0.2)
+        return part(f"cowl_{side}", pivot=(sx * 4.3, -0.5, -2.5), rot=(0.1, sx * -0.55, sx * 0.5), children=[
+            inner,
+            part(f"cowl_{side}_outer", pivot=(0, -7, 0.5), rot=(0.1, sx * 0.2, sx * 0.42), children=[outer]),
+        ])
 
     def chin(side):
         sx = -1 if side == "r" else 1
